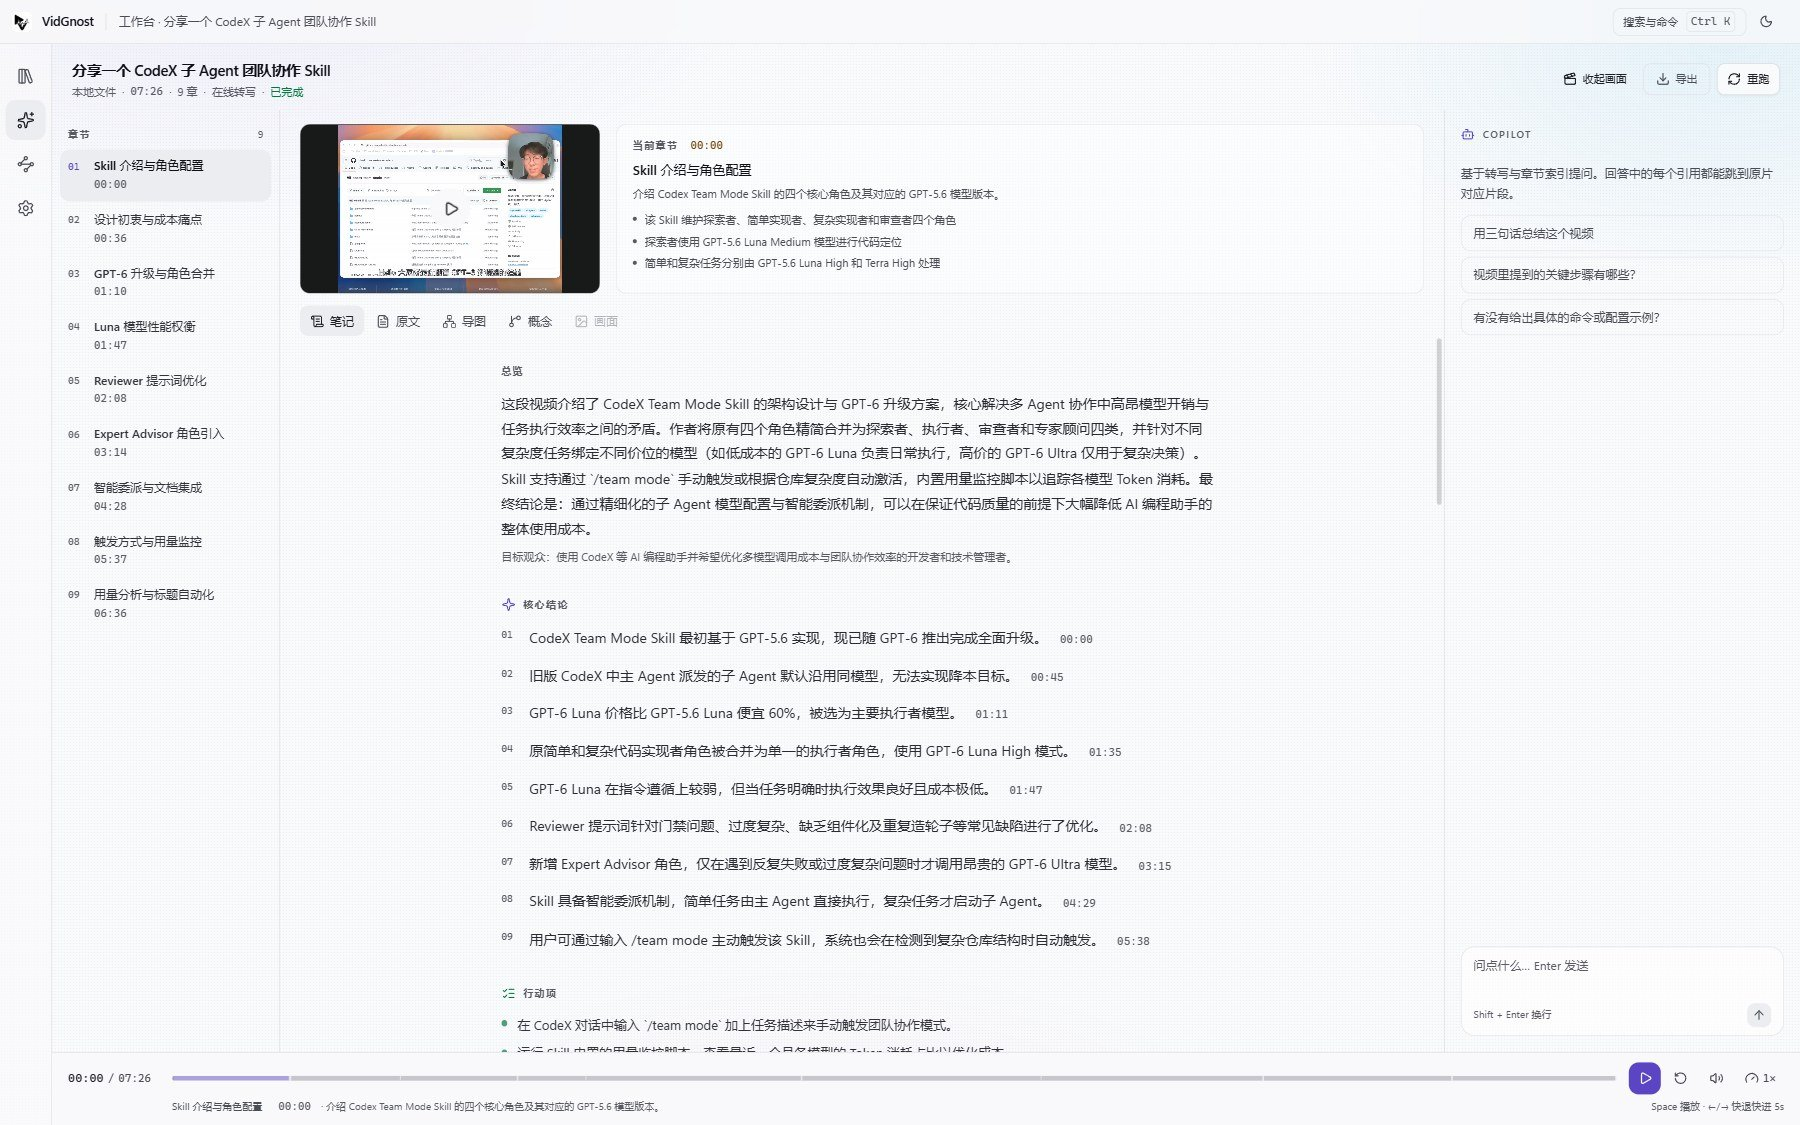
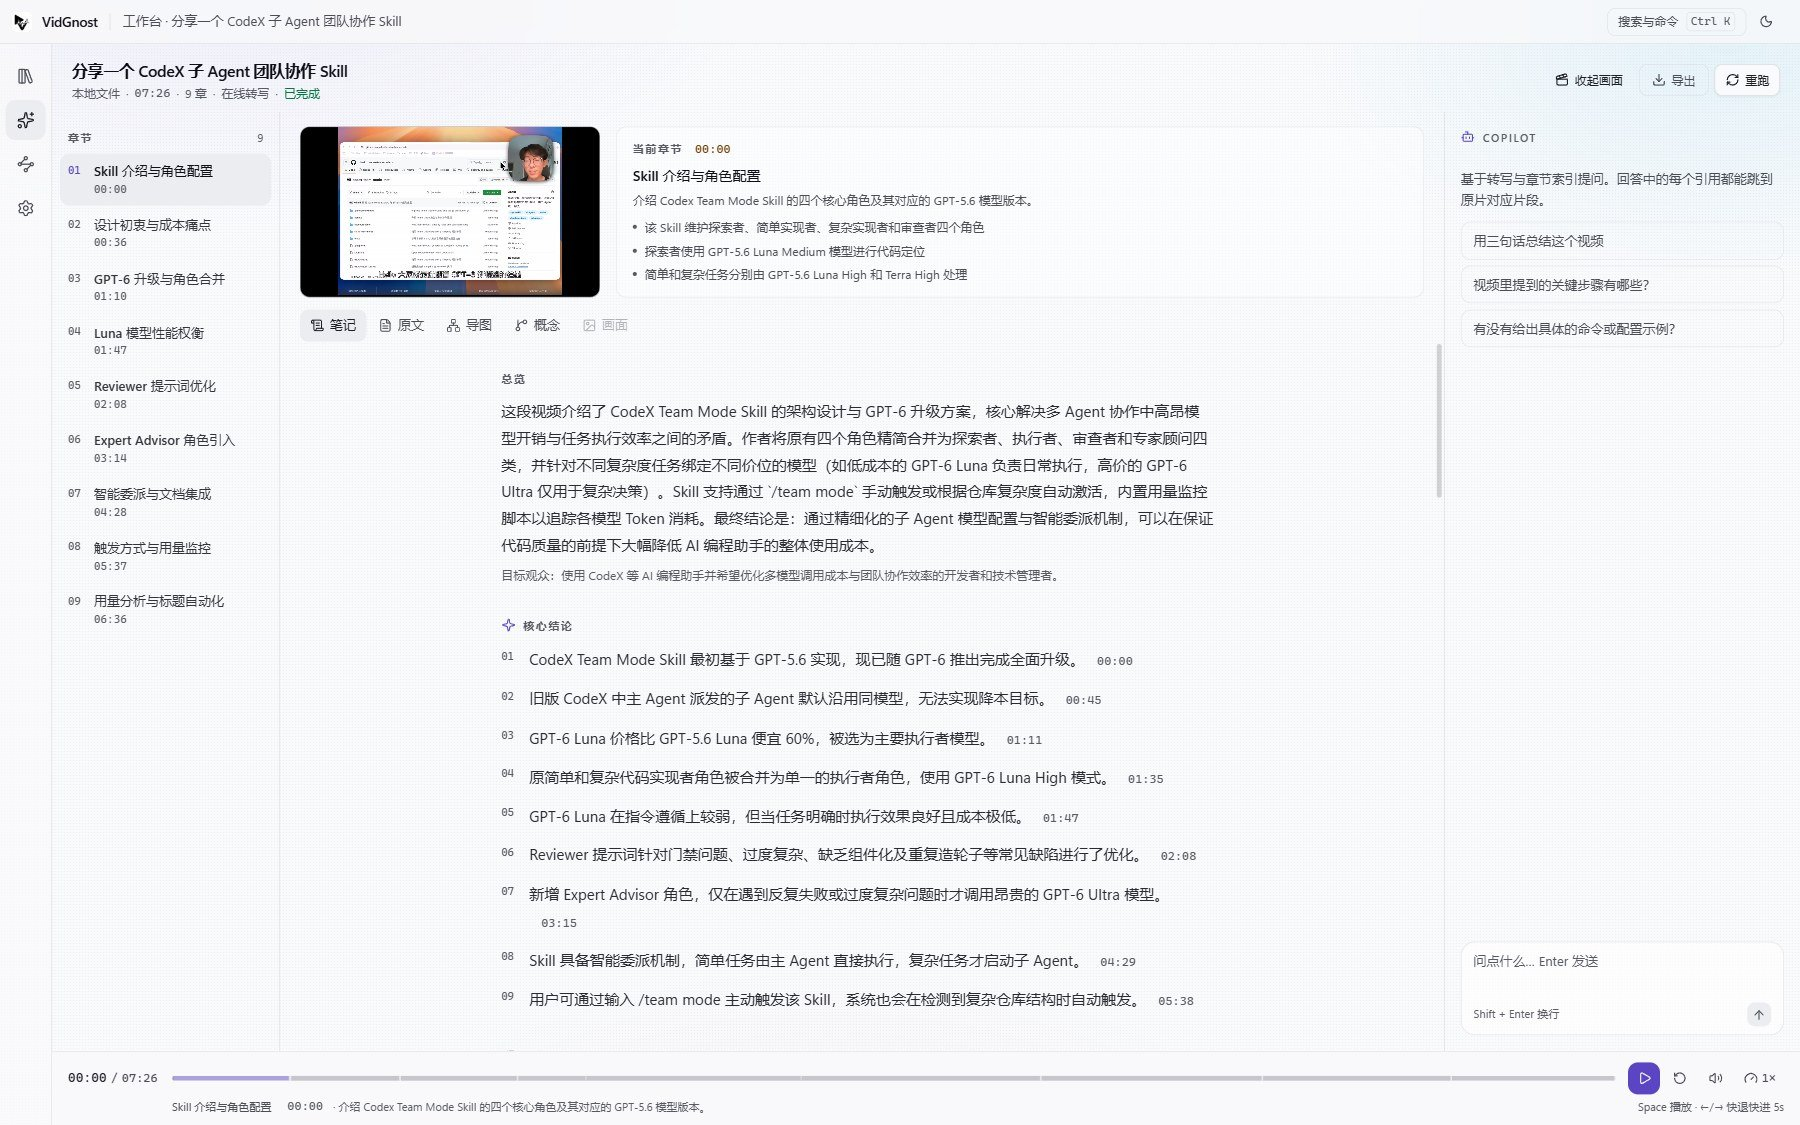
docs: 同步字号可调的说明与截图
README 两种语言补上「正文默认 14px、可在设置里选 12-26px」，
技术栈文档把主题控制改写为外观控制并补上字号阶梯与缩放开关；
截图按新的默认字号重截，尺寸与浅色模式保持不变。

diff --git a/docs/current-tech-stack.zh-CN.md b/docs/current-tech-stack.zh-CN.md
@@ -55,10 +55,13 @@ apps/api/src
   描边（`border / border-strong / input / hairline`）、动作（`primary / secondary / accent`）、
   语义（`success / warning / destructive / info`）、时间锚点（`timestamp / timestamp-surface`）、
   浮层（`scrim`）、噪点强度（`noise-opacity`）
-- 主题控制：`stores/theme-store.ts`（`light / dark / system`，持久化于 `localStorage`）；
-  `index.html` 内联脚本在首屏绘制前应用主题，避免闪烁
+- 外观控制：`stores/appearance-store.ts` 同时管理主题（`light / dark / system`）与界面字号；
+  `index.html` 内联脚本在首屏绘制前应用两者，避免主题闪烁与字号跳动
 - 排版：`--font-sans`（Inter + 系统中文字体栈）、`--font-mono`（JetBrains Mono 栈）；
-  字号阶梯 11/12/13/15/20/28，阅读区行高 1.78
+  语义字号十档（micro 11 / meta 12 / note 13 / body 14 / lead 15 / subhead 16 / head 17 /
+  title 18 / page 22 / hero 30，均为 rem），阅读区行高 1.78
+- 字号缩放：根字号为 `calc(100% * var(--font-scale))`，设置页可选 12-26px，
+  比例 = 选定值 / 14；组件不写死像素字号，容器宽度、栅格模板与阅读区上限也用 rem 跟着缩放
 - 动效：`--ease-out-quint`、140/220/360ms 三档时长，并遵守 `prefers-reduced-motion`
 - 图形：Mermaid 使用与主题对齐的十六进制配色（其解析器不支持 `oklch()`），
   `mindmap` 的 section 色阶在渲染后按主题重写

diff --git a/README.md b/README.md
@@ -159,6 +159,8 @@ Four workspaces sharing one time coordinate system.
 The interface is dark-first: a graphite canvas with an aurora wash, hairline borders, an 8pt grid,
 monospaced timecodes, and a global `Ctrl/⌘ + K` command palette. The light theme uses the same semantic
 tokens and passes the same contrast bar (`node scripts/check-theme-contrast.mjs`).
+Body text defaults to 14px; the interface font size is selectable from 12 to 26px in Settings → Appearance,
+and the rest of the interface scales with it.
 
 ## Repository layout
 

diff --git a/README.zh-CN.md b/README.zh-CN.md
@@ -149,6 +149,7 @@ OPENROUTER_API_KEY=sk-or-v1-xxxx   # OpenRouter（重排序）
 
 界面以暗色为主：石墨画布与极光微光、发丝描边、8pt 栅格、等宽时间码，全局 `Ctrl/⌘ + K` 命令面板。
 浅色主题与暗色主题使用同一套语义令牌，并通过 `node scripts/check-theme-contrast.mjs` 校验到同一个对比度标准。
+正文默认 14px，字号可在「设置 → 外观」里按像素调节（12-26px），界面其余部分按同一比例缩放。
 
 ## 仓库结构
 
